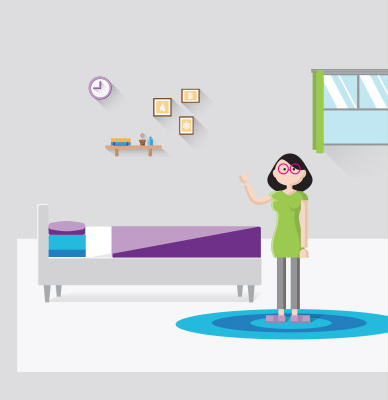
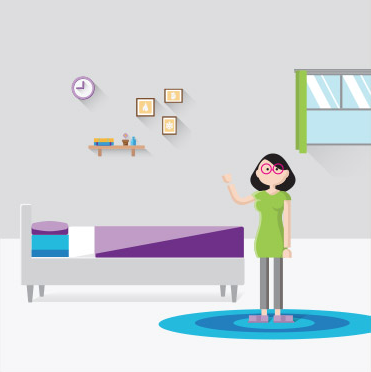
PLAT-4236 Ajustes

diff --git a/src/styles/components/listagem/_calculadora-btu.scss b/src/styles/components/listagem/_calculadora-btu.scss
@@ -10,73 +10,27 @@
 	position: relative;
 	transition: max-height .5s ease, max-width .5s ease;
 
-	@include breakpoint(1280px, 'max') {
-		// max-height: 420px;
-		max-width: 1000px;
-	}
+	@include breakpoint(1280px, 'max') { max-width: 1000px; }
 
-	@include breakpoint(1120px, 'max') {
-		// max-height: 500px;
-	}
+	@include breakpoint(1012px, 'max') { max-width: 600px; }
 
-	@include breakpoint(1012px, 'max') {
-		max-width: 600px;
-	}
-
-	@include breakpoint(960px, 'max') {
-		// max-height: 500px;
-	}
-
-	@include breakpoint(768px, 'max') {
-		// margin: 10px auto;
-		// max-height: 600px;
-		margin: 0 auto;
-	}
+	@include breakpoint(768px, 'max') { margin: 0 auto; }
 
 	#calculadora-btu {
-		// @include breakpoint(1280px, 'min') { height: 700px !important; }
-
 		display: block;
-		// margin: 15px auto;
-		max-height: 250px;
 		position: relative;
-		// transform: translate(0, 0);
 		width: 1300px;
 
 		&.initiated { max-height: initial; }
 
 		@include breakpoint(1280px, 'max') {
-			// height: 930px;
 			max-width: 100%;
-			// transform: translate(0, -5%);
 			width: 100%;
 		}
 
-		@include breakpoint(1120px, 'max') {
-			// transform: translate(0, 20%);
-		}
+		@include breakpoint(1012px, 'max') { max-width: 600px; }
 
-		@include breakpoint(1012px, 'max') {
-			max-width: 600px;
-			// transform: translate(0, 10%);
-		}
-
-		@include breakpoint(960px, 'max') {
-			// transform: translate(0, 15%);
-		}
-
-		@include breakpoint(768px, 'max') {
-			// margin: 30px 0 0 0;
-			// transform: translate(0, 20%);
-		}
-
-		@include breakpoint(480px, 'max') {
-			// transform: translate(0, 25%);
-		}
-
-		@include breakpoint(360px, 'max') {
-			// transform: translate(0, 30%);
-		}
+		@include breakpoint(480px, 'max') { max-height: 250px; }
 	}
 }
 

diff --git a/src/pages/simulador-btu/styles/components/_carousel.scss b/src/pages/simulador-btu/styles/components/_carousel.scss
@@ -229,8 +229,8 @@
 		background: #f3f3f5 url('/arquivos/lp-calc-btu--images--intro_bedroom.jpg') bottom -600px center no-repeat;
 		background-size: cover;
 	}
-	background: #dddddf url('/arquivos/lp-calc-btu--images--mob-bedroom.png') center bottom 20px no-repeat;
-	background-size: auto 100%;
+	background: #dddddf url('/arquivos/lp-calc-btu--images--mob-bedroom.png') bottom no-repeat;
+	background-size: 100%;
 }
 
 .comodo .dois {
@@ -238,8 +238,8 @@
 		background: #f3f3f5 url('/arquivos/lp-calc-btu--images--intro_office.jpg') bottom -600px center no-repeat;
 		background-size: cover;
 	}
-	background: #dddddf url('/arquivos/lp-calc-btu--images--mob-office.png') center bottom 20px no-repeat;
-	background-size: auto 100%;
+	background: #dddddf url('/arquivos/lp-calc-btu--images--mob-office.png') bottom no-repeat;
+	background-size: 100%;
 }
 
 .comodo .tres {
@@ -247,6 +247,6 @@
 		background: #f3f3f5 url('/arquivos/lp-calc-btu--images--intro_dinner_room.jpg') bottom -600px center no-repeat;
 		background-size: cover;
 	}
-	background: #dddddf url('/arquivos/lp-calc-btu--images--mob-dinner.png') center bottom 20px no-repeat;
-	background-size: auto 100%;
+	background: #dddddf url('/arquivos/lp-calc-btu--images--mob-dinner.png') bottom no-repeat;
+	background-size: 100%;
 }

diff --git a/src/pages/simulador-btu/scripts/calculadora-btu.min.js b/src/pages/simulador-btu/scripts/calculadora-btu.min.js
@@ -131,8 +131,12 @@ jQuery( function () {
 		return false;
 	} );
 
-	// Clicks e Eventos
+	// no mobile, marca a primeira opcao dos input radios quando muda de slide
 	jQuery( '.introducao .btn-init, .btn-seg' ).on( 'click', function(){
+		if( config.dispositivo() == 'tablet' || ( config.dispositivo() == 'mobile' ) ) {
+			jQuery('.ativo fieldset label.radio:first-child input').click();
+		}
+
 		if( !jQuery( this ).hasClass( 'disabled' ) && (! jQuery( 'body' ).hasClass( 'animando' ) ) ){
 			if ( jQuery( this ).hasClass( 'btn-ult' ) ) {
 				// pegando o resultado - valor do btu indicado
@@ -249,6 +253,7 @@ jQuery( function () {
 		if ( config.dispositivo() == 'mobile' || config.dispositivo() == 'tablet' ) {
 			var carrossel = jQuery( this ),
 				inputs = carrossel.siblings( '.conteudo' ).find( '[type="radio"]' );
+
 			// depois que trocou de slide
 			carrossel.on( 'afterChange', function( ev,slick, currentSlide ) {
 				// marca o slide
